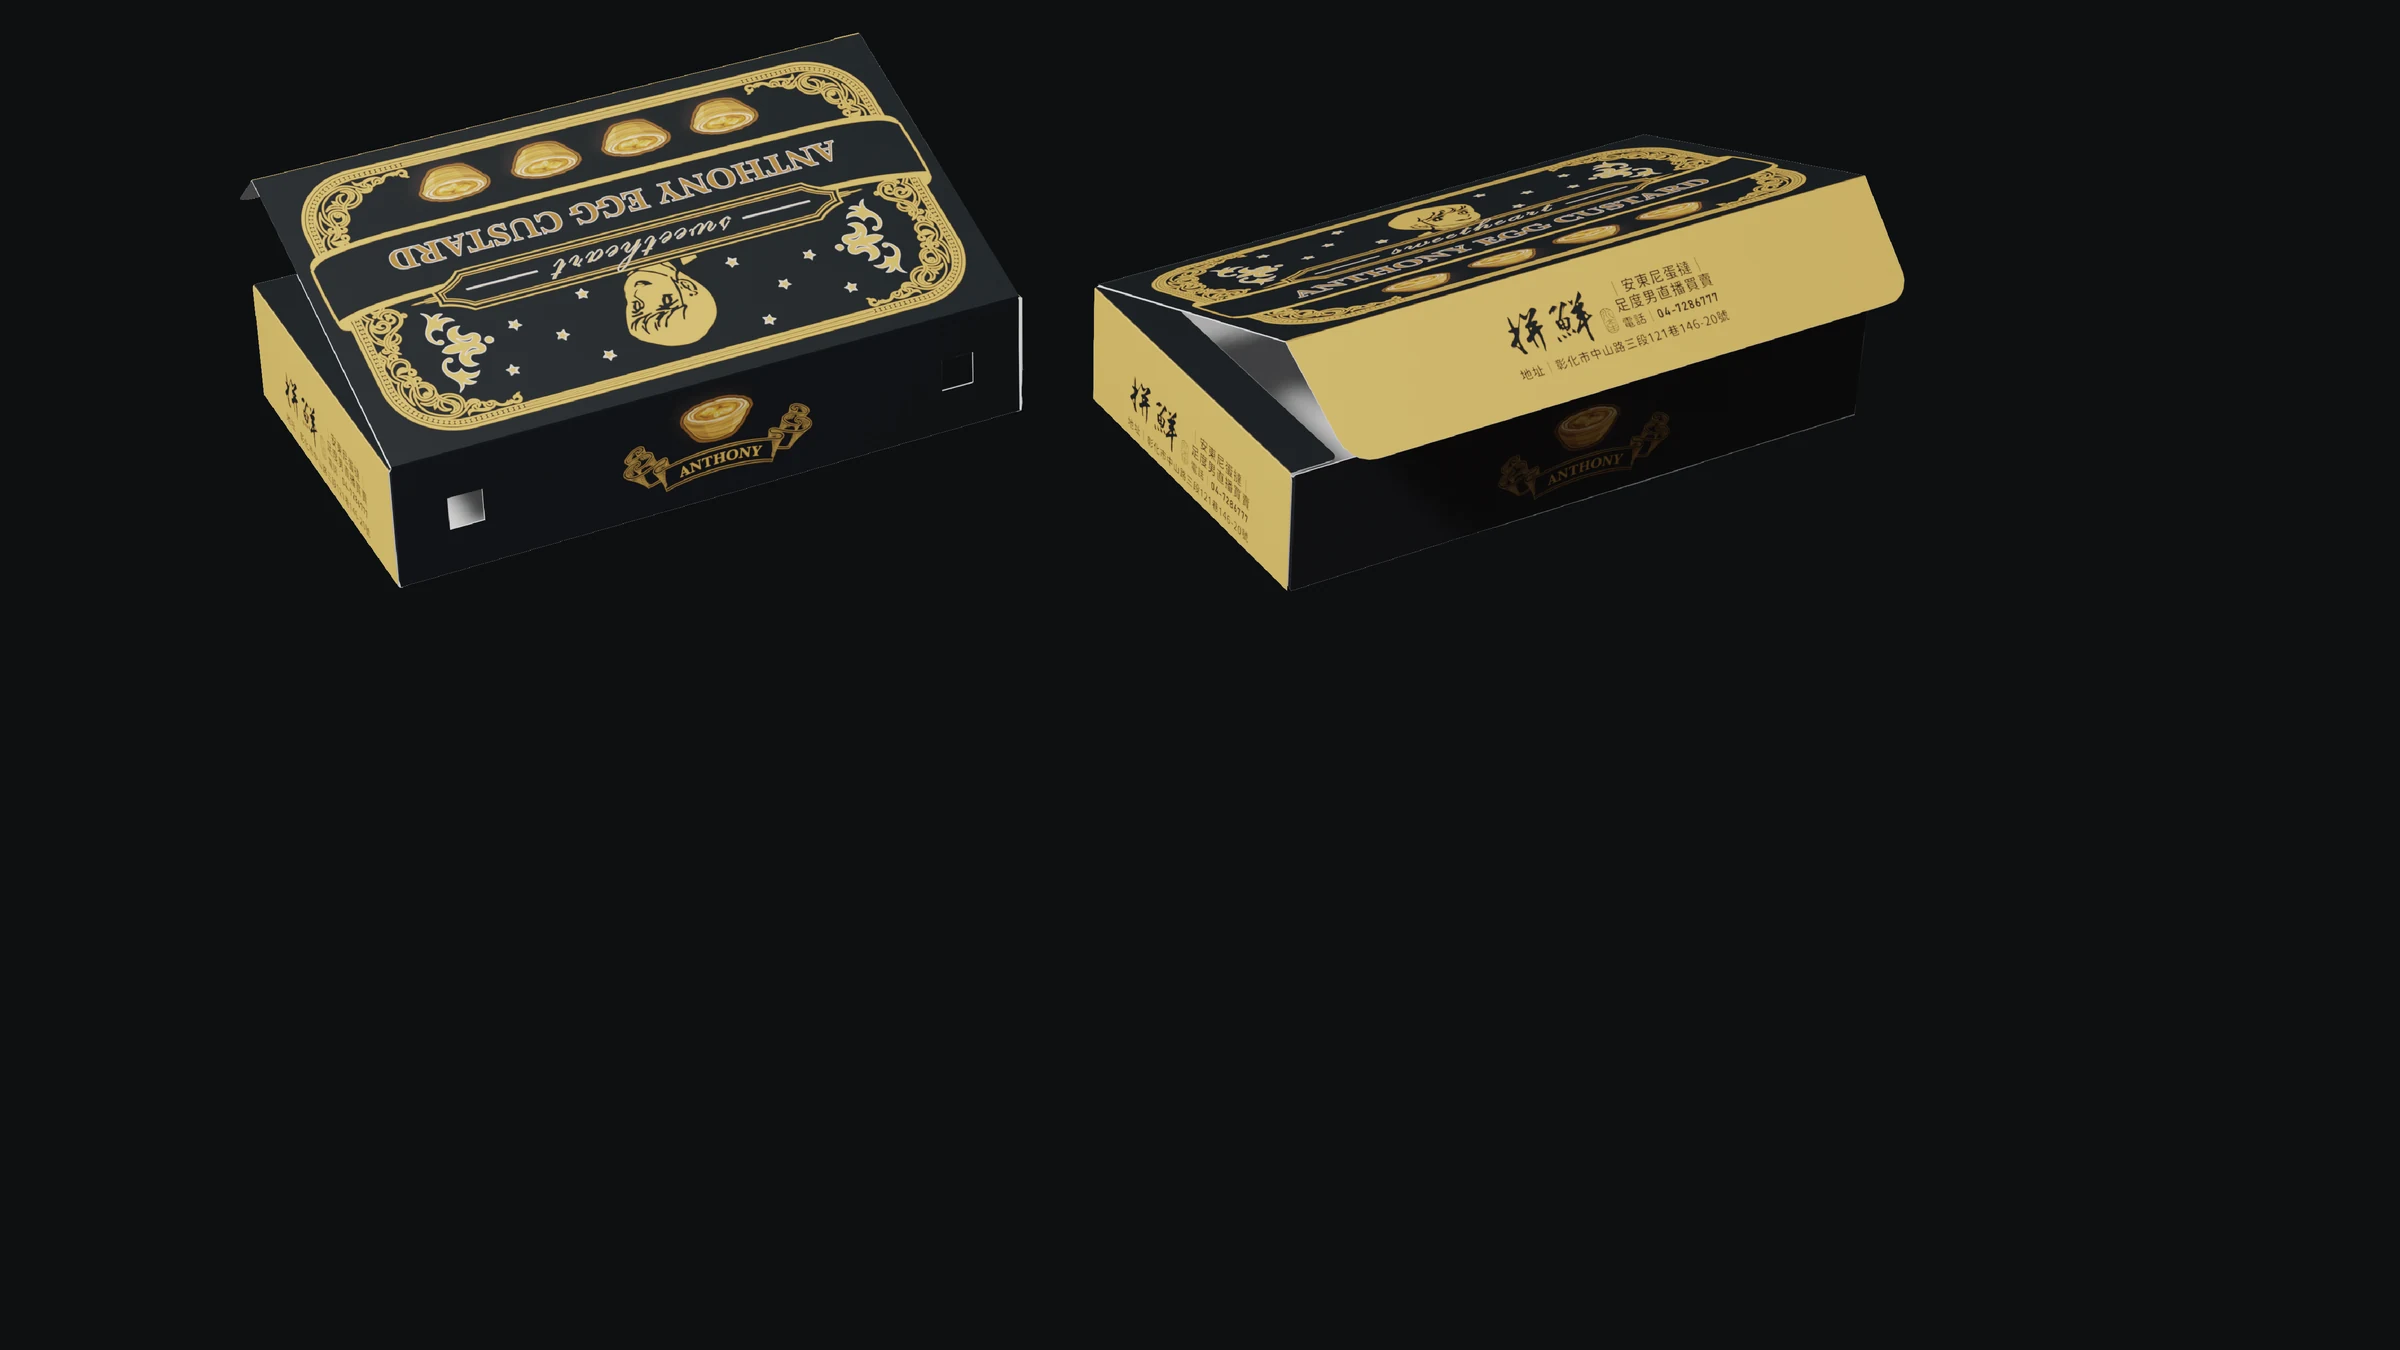
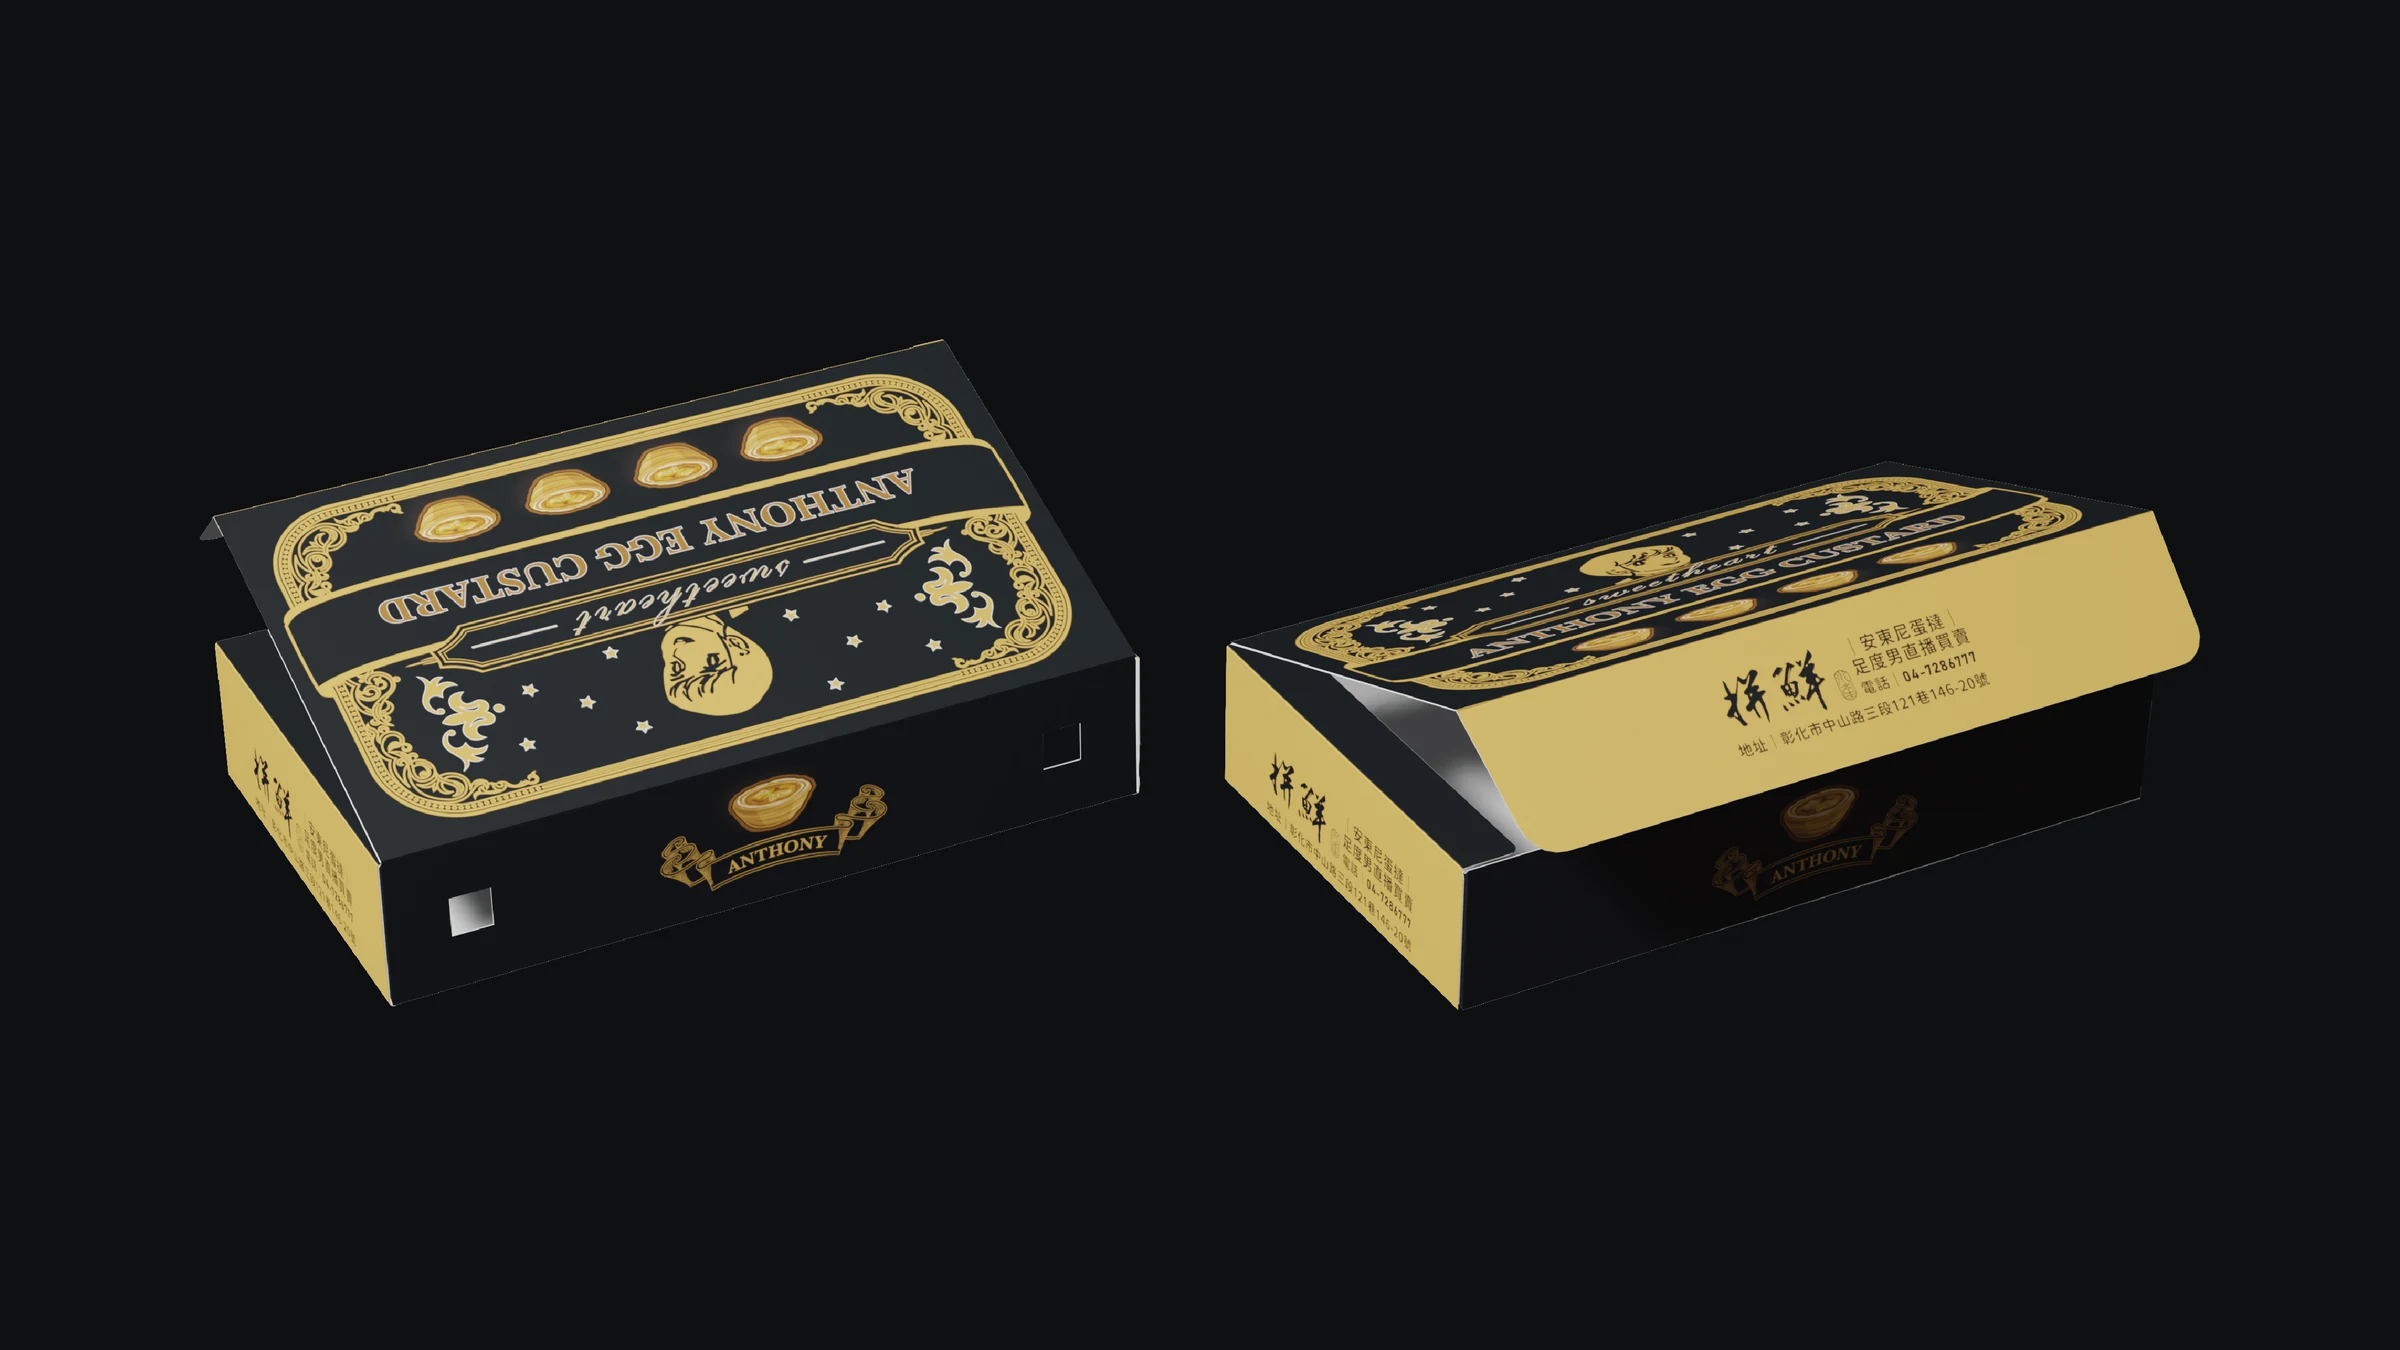
falemi: tighter 3D crop
Claude-Session: https://claude.ai/code/session_01FHAxfGfD8vpumr7C1YBcXa

Changed region(s): [[0.0625, 0.0311, 0.9375, 0.7467]]

diff --git a/cases/falemi.html b/cases/falemi.html
@@ -47,7 +47,7 @@
 <section class="aipages">
 <figure class="aip" style="aspect-ratio:1920 / 1080"><img src="./old/falemi/01.webp?v=261126g" alt="法叻米食品 01" loading="eager" decoding="async"><div class="tx"><span style="left:13.385%;top:39.039%;font-size:10.0547cqw"></span><span style="left:19.244%;top:39.039%;font-size:10.0547cqw"></span><span style="left:25.104%;top:39.039%;font-size:10.0547cqw"></span><span style="left:30.963%;top:39.039%;font-size:10.0547cqw"></span><span style="left:36.822%;top:39.039%;font-size:10.0547cqw"></span><span style="left:12.531%;top:47.140%;font-size:6.1970cqw">LOGO</span><span style="left:13.463%;top:54.987%;font-size:1.9383cqw">PACKAGING</span><span style="left:24.446%;top:54.987%;font-size:1.9383cqw">DESIGN</span><span style="left:31.642%;top:54.987%;font-size:1.9383cqw">I</span><span style="left:32.658%;top:55.302%;font-size:1.7434cqw">包</span><span style="left:34.778%;top:55.302%;font-size:1.7434cqw">裝</span><span style="left:36.898%;top:55.302%;font-size:1.7434cqw">設</span><span style="left:39.018%;top:55.302%;font-size:1.7434cqw">計</span><span style="left:59.068%;top:46.737%;font-size:6.1970cqw">包裝圖</span></div></figure><details class="rl-flow"><summary>展開本頁文字</summary><div class="rl-fb"><p>    </p><p>LOGO</p><p>PACKAGING DESIGN I包裝設計</p><p>包裝圖</p></div></details>
 <figure class="aip" style="aspect-ratio:1920.01 / 1080.01"><img src="./old/falemi/02.webp?v=261126g" alt="法叻米食品 02" loading="lazy" decoding="async"><div class="tx"><span style="left:3.025%;top:12.366%;font-size:4.1382cqw">包裝設計</span><span style="left:2.630%;top:3.523%;font-size:1.7955cqw">PACKAGING</span><span style="left:2.630%;top:7.148%;font-size:1.7955cqw">DESIGN</span><span style="left:2.630%;top:10.773%;font-size:1.7955cqw">/</span><span style="left:15.676%;top:46.242%;font-size:3.2432cqw">100%</span><span style="left:21.076%;top:46.142%;font-size:3.3211cqw">FRESH</span><span style="left:9.394%;top:50.744%;font-size:3.2928cqw">DELICIOUS</span><span style="left:22.747%;top:50.744%;font-size:3.2928cqw">EGG</span><span style="left:28.827%;top:50.744%;font-size:3.2928cqw">TART</span></div></figure><details class="rl-flow"><summary>展開本頁文字</summary><div class="rl-fb"><p>PACKAGING DESIGN /</p><p>包裝設計</p><p>100% FRESH DELICIOUS EGG TART</p></div></details>
-<figure class="aip" style="aspect-ratio:16 / 9"><img src="./old/falemi/05_3d.webp?v=1" alt="拼鮮 安東尼蛋撻盒 3D" loading="lazy" decoding="async"></figure>
+<figure class="aip" style="aspect-ratio:16 / 9"><img src="./old/falemi/05_3d.webp?v=2" alt="拼鮮 安東尼蛋撻盒 3D" loading="lazy" decoding="async"></figure>
 <figure class="aip" style="aspect-ratio:1 / 1;max-width:900px;margin-inline:auto"><img src="./old/falemi/06_scene.webp?v=1" alt="拼鮮 安東尼蛋撻盒 情境" loading="lazy" decoding="async"></figure>
 <figure class="aip" style="aspect-ratio:1910.22 / 1080"><img src="./old/falemi/03.webp?v=261126g" alt="法叻米食品 03" loading="lazy" decoding="async"><div class="tx"><span style="left:2.784%;top:12.364%;font-size:1.0398cqw">包</span><span style="left:2.784%;top:14.974%;font-size:1.0398cqw">裝</span><span style="left:2.784%;top:17.584%;font-size:1.0398cqw">設</span><span style="left:2.784%;top:20.195%;font-size:1.0398cqw">計</span><span style="left:2.387%;top:3.521%;font-size:1.8047cqw">PACKAGING</span><span style="left:2.387%;top:7.146%;font-size:1.8047cqw">DESIGN</span><span style="left:2.387%;top:10.771%;font-size:1.8047cqw">/</span><span style="left:9.482%;top:24.004%;font-size:6.6855cqw">DELICIOUS</span><span style="left:9.482%;top:37.854%;font-size:2.6601cqw">EGG</span><span style="left:9.482%;top:43.792%;font-size:3.2479cqw">TART</span><span style="left:8.194%;top:24.004%;font-size:6.6318cqw">100%FRESH</span></div></figure><details class="rl-flow"><summary>展開本頁文字</summary><div class="rl-fb"><p>PACKAGING DESIGN /</p><p>包裝設計</p><p>100%FRESH</p><p>DELICIOUS EGG TART</p></div></details>
 <figure class="aip" style="aspect-ratio:1910.22 / 1080"><img src="./old/falemi/04.webp?v=261126g" alt="法叻米食品 04" loading="lazy" decoding="async"><div class="tx"><span style="left:2.784%;top:14.119%;font-size:1.0398cqw">包</span><span style="left:2.784%;top:16.730%;font-size:1.0398cqw">裝</span><span style="left:2.784%;top:19.340%;font-size:1.0398cqw">設</span><span style="left:2.784%;top:21.950%;font-size:1.0398cqw">計</span><span style="left:2.387%;top:5.276%;font-size:1.8047cqw">PACKAGING</span><span style="left:2.387%;top:8.902%;font-size:1.8047cqw">DESIGN</span><span style="left:2.387%;top:12.527%;font-size:1.8047cqw">/</span></div></figure><details class="rl-flow"><summary>展開本頁文字</summary><div class="rl-fb"><p>PACKAGING DESIGN /</p><p>包裝設計</p></div></details>
